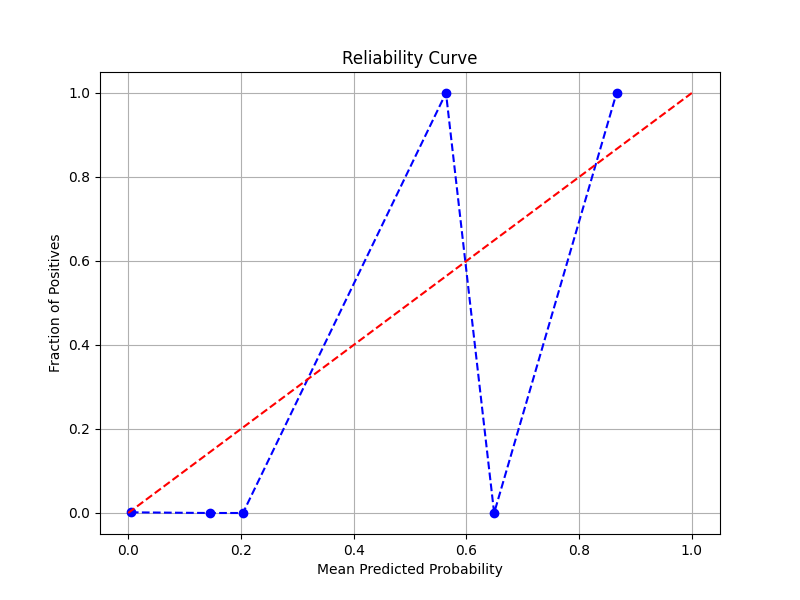
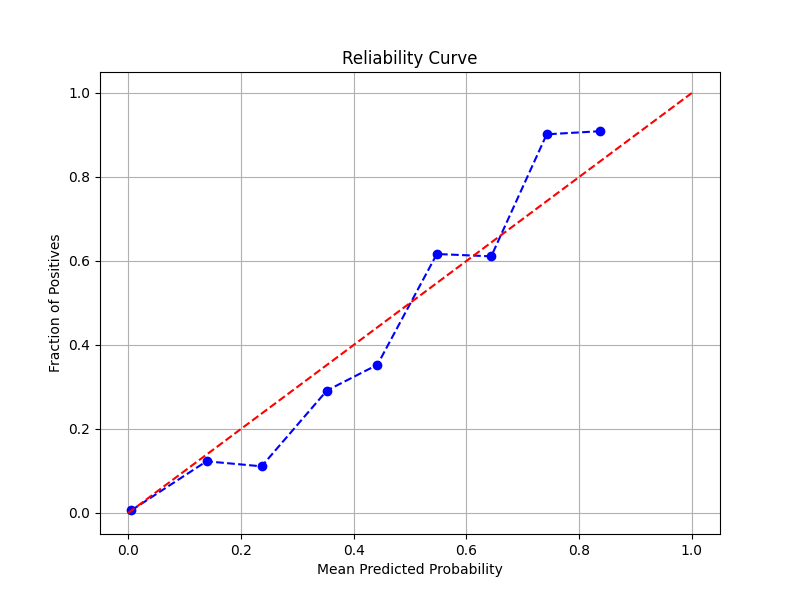
graphed with more data Graphs_1D_Conv_LSTM_v8

diff --git a/plottingGraphs.py b/plottingGraphs.py
@@ -165,8 +165,12 @@ def plot_reliability_curve(model, X_test, y_test, class_index, modelName, n_bins
 
     # Convert multi-class labels to binary labels for the specific class
     pos_label = class_index  # Use the class index as the positive label
-    y_true_binary = (y_test[0] == pos_label).astype(int)
 
+    y_true_binary = []
+
+    for game in y_test:
+        y_true_binary.extend((game == pos_label).astype(int))
+    
     # Create the reliability curve
     prob_true, prob_pred = calibration_curve(y_true_binary, y_prob, n_bins=n_bins)
 
@@ -184,7 +188,7 @@ def plot_reliability_curve(model, X_test, y_test, class_index, modelName, n_bins
 
 
 startFile = 1
-endFile = 2
+endFile = 100
 file_count = 0
 expected_shape = (100, 24)
 expected_y_shape = (5,)
@@ -259,10 +263,16 @@ directory = f'Graphs_{name}'
 if not os.path.exists(directory):
     os.makedirs(directory)
 
-plotLoss(combined_history.history,name)
-plotAccuracy(combined_history.history,name)
-plotLearningCurve(combined_history.history, X_train,name)
+# plotLoss(combined_history.history,name)
+# plotAccuracy(combined_history.history,name)
+# plotLearningCurve(combined_history.history, X_train,name)
 plotLabelFreqAndPercentErr(combined_history.history,X_test,y_test,model,name)
 
-for eachLabel in mapping:
-    plot_reliability_curve(model,X_test,y_test,int(eachLabel), name)
+for class_index in mapping:
+    y_true_binary = []
+
+    for game in y_test:
+        y_true_binary.extend((game == class_index).astype(int))
+
+    # Create and plot the reliability curve for the current class_index
+    plot_reliability_curve(model, X_test, y_test, int(class_index), name)
